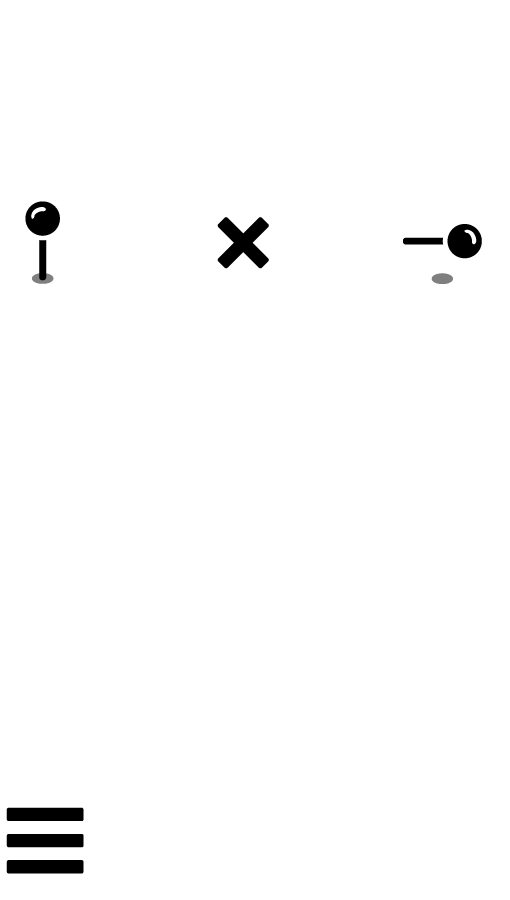
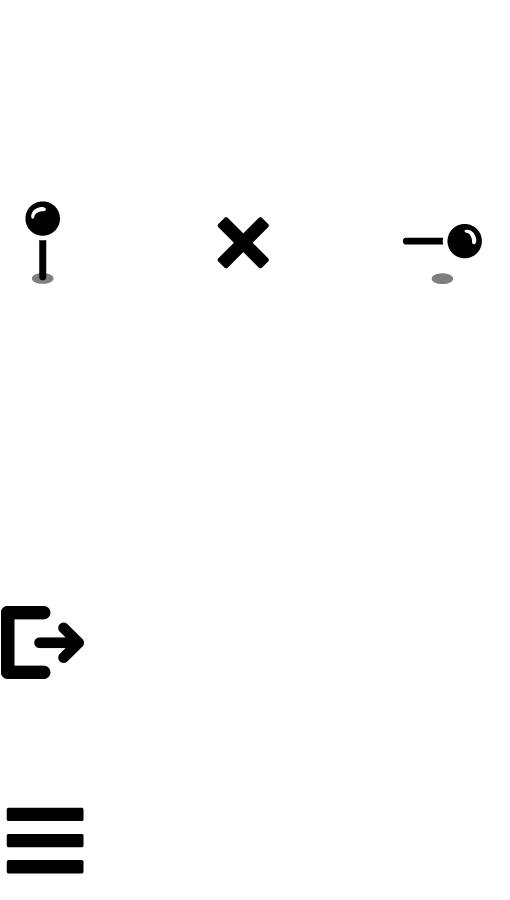
Flatten and simplify folio footer

Changed region(s): [[0.0, 0.6533, 0.1765, 0.7778]]

diff --git a/application/static/css/wonderpad.css b/application/static/css/wonderpad.css
@@ -62,15 +62,7 @@ body {
   border: 1px solid #c5c5c5;  
 }
 
-.button.dark, .panel.dark {
-  background-image: -webkit-gradient(linear, top, #494949, #313131); 
-  background-image: -webkit-linear-gradient(top, #494949, #313131);
-  background-image: -moz-linear-gradient(top, #494949, #313131);
-  background-image: -ms-linear-gradient(top, #494949, #313131);
-  filter: progid:DXImageTransform.Microsoft.gradient(GradientType=0,startColorstr='#494949', endColorstr='#313131');  
-  background-image: -o-linear-gradient(left, #494949, #313131);
-  background-image: linear-gradient(top, #494949, #313131);    
-  border: 1px solid #1d1d1d;   
+.button.dark, .panel.dark { 
   color: #eee;
 }
 
@@ -79,15 +71,7 @@ body {
   background-size: 108px auto;  
 }
 
-.button.dark:hover, .panel.dark:hover {
-  background-image: -webkit-gradient(linear, top, #666, #444); 
-  background-image: -webkit-linear-gradient(top, #666, #444);
-  background-image: -moz-linear-gradient(top, #666, #444);
-  background-image: -ms-linear-gradient(top, #666, #444);
-  filter: progid:DXImageTransform.Microsoft.gradient(GradientType=0,startColorstr='#666666', endColorstr='#444444');   
-  background-image: -o-linear-gradient(left, #666, #444);
-  background-image: linear-gradient(top, #666, #444);    
-  border: 1px solid #1d1d1d;   
+.button.dark:hover, .panel.dark:hover { 
   color: #fff;
 }
 
@@ -376,53 +360,49 @@ a.wpcbutton:hover {
 
 .menu .menufooter {
   position: absolute;
-  bottom: 0.6em;
-  left: 0.50em;
+  bottom: 0;
+  left: 0;
 }
 
 .menu .menufooter .logio {
   display: block;
 }
 
-.menu .menufooter a span {
+.menu .menufooter a.logio {
   background-image: url(../img/icons.png);
-}
-
-.menu .menufooter .logio.login a span {
-  background-position: -1px -85px;
-}
-
-.menu .menufooter .logio.logout a span {
-  background-position: 0 -127px;  
-}
-
-.menu .menufooter .archive {
-  position: absolute;
-  bottom: 0;
-  left: 38px;
-  display: block;
-  margin-left: 5px;
-  width: 250px;
-}
-
-.menu .menufooter .archive a {
+  background-repeat: no-repeat;
+  background-size: 108px auto;
+  text-indent: -3000px;
+  width: 50px;
+  height: 35px; 
+  opacity: 0.5; 
   display: inline-block;  
 }
 
-.menu .menufooter a.settings span {
-  background-position: -43px -84px;  
+.menu .menufooter a.logio:hover {
+  opacity: 1;
 }
 
-.menu .menufooter a.archbutton {
-  padding: 0 0 0 4px;
-  margin-left: 10px;
-  width: 200px;  
+.menu .menufooter a.logio.login {
+  background-position: 15px -82px;
 }
 
-.menu .menufooter a.archbutton span {
-  background-position: -85px -85px;  
-  padding-left: 28px; 
+.menu .menufooter a.logio.settings {
+  background-position: -26px -82px;   
 }
+
+.menu .menufooter a.archive {
+  position: absolute;
+  top: 2px;
+  left: 51px;
+  text-decoration: none;
+  color: #bbb;
+}
+
+.menu .menufooter a.archive:hover {
+  color: #fff;
+}
+
 
 @media (max-width: 480px) {
   .menu {
@@ -435,35 +415,7 @@ a.wpcbutton:hover {
     width: auto;
   }
 
-  .menu .menufooter {
-    position: absolute;
-    bottom: 7px;
-    left: 7px;
-    right: 50px;
-  }  
-
-  .menu .menufooter .archive {
-    width: auto;
-    right: 0;
-    margin-left: 0;
-    left: 40px;
-  }
-
-  .menu .menufooter a.archbutton {
-    position: absolute;
-    left: 38px;
-    right: 9px;
-    padding: 0;
-    margin-left: 2px;  
-    max-width: 202px;
-    width: auto; 
-    white-space: nowrap;
-    overflow: hidden;
-    text-overflow: ellipsis;           
-  } 
-
-  .menu .menufooter a.archbutton span {
-    padding-left: 24px; 
+  .menu .menufooter a.archive {
     white-space: nowrap;
     overflow: hidden;
     text-overflow: ellipsis;       
@@ -1990,6 +1942,23 @@ body#settingsPage input#cc_number.error {
   margin-right: 10px; 
 }
 
+#s_settings form .logout {
+  width: 32px;
+  height: 30px;
+  margin-top: -44px;
+  float: right;
+  cursor: pointer;
+  background-image: url(../img/icons.png);
+  background-repeat: no-repeat;
+  background-size: 108px auto;  
+  background-position: 5px -121px;   
+  opacity: 0.4;
+}
+
+#s_settings form .logout:hover {  
+  opacity: 0.9;
+}
+
 #s_settings form .ioption {
   float: right;
   display: inline-block;
@@ -2001,6 +1970,7 @@ body#settingsPage input#cc_number.error {
 
 #s_settings form .ioption.save {
   display: none;
+  margin-right: 36px;   
 }
 
 #s_settings form .ioption.error {

diff --git a/application/static/js/client.js b/application/static/js/client.js
@@ -56,11 +56,6 @@ var Hiro = {
 		// Lookup object. Usage: Hiro.folio.lookup[<docid>]
 		lookup: {},
 
-		// Last server sync timestamp
-		lastsync: 0,
-		// Time to live in ms, how long before we request a new version from the server to make sure we're in sync
-		ttl: 0,
-
 		// Timer for display update
 		updatetimeout: null,		
 
@@ -102,6 +97,23 @@ var Hiro = {
 			Hiro.util.registerEvent(this.el_archive,'click',Hiro.folio.docclick);						
 		},
 
+		bootstrap: function() {
+			// Build initial state on first visit or login
+		},		
+
+		paint: function() {
+			// (Re)render current doclist into DOM
+
+		},
+
+		set: function(source,id,property,value,verb) {
+			// source: user or server
+			// id: document id
+			// property: no shit sherlock
+			// value: see above
+			// verb (optional): action to be done eg in collaboratorslist (add/remove) 
+		},
+
 		docclick: function(e) {
 			// Clickhandler, this happens if a user clicks on a doc in the folio
 			var target = e.relatedTarget || e.toElement,
@@ -126,7 +138,7 @@ var Hiro = {
 			if (docid != Hiro.canvas.docid) {
 				Hiro.canvas.loaddoc(docid, Hiro.folio.lookup[docid].title);
 			}				
-		},
+		},		
 
 		showSettings: function(section,field,event) {
 			// Show settings dialog
@@ -724,7 +736,7 @@ var Hiro = {
 
 				// Setting the viewport height has a lot of benefits regarding the bugs we dealt with 
 				// (eg signup input field not scrolling into view, blocked input fields etc)
-				var measure = 'height=' + window.innerHeight + 'device-height,width=device-width,initial-scale=1, maximum-scale=1, user-scalable=no';
+				var measure = 'height=' + window.innerHeight + ',width=device-width,initial-scale=1, maximum-scale=1, user-scalable=no';
 				document.getElementById('viewport').setAttribute('content', measure);
 
 				// Cancel safariinit after enough time passed to focus textarea fast after that
@@ -1741,6 +1753,50 @@ var Hiro = {
 			}
 		}
 	},	
+
+	sync: {
+		// Object of not yet synced updates
+		updates: {},
+		// Queue of to be sent/confirmed messages
+		queue: [],
+		// Last server sync timestamp
+		lastsync: 0,	
+		// Is the local datastructure saved locally? 
+		persisted: false,
+
+		buildqueue: {
+			// Take update object and transform it into queue messages
+		},
+
+		send: function() {
+			// Transmit current queue
+		},
+
+		incoming: function(message) {
+			// Handler for incoming messages
+		},
+
+		ds: {
+			// Differential sync components
+		},
+
+		socket: {
+			// Lean websocket API
+		},
+
+		longpolling: {
+			// Longpolling fallback
+		},
+
+		ajax: {
+			// Generic AJAX API
+		},
+
+		store: {
+			// Localstorage abstraction
+		}
+
+	},
 
 	sharing: {
 		// Share a Note with other users
@@ -3840,9 +3896,9 @@ var Hiro = {
 						results.style.marginRight = '1px';
 						results.style.paddingRight = '2px';						
 						signupButton.style.display = 'none';
-						Hiro.folio.el_logio.className = 'logio logout';
-						Hiro.folio.el_logio.getElementsByTagName('a')[0].title = 'Logout';
-						Hiro.folio.el_logio.getElementsByTagName('span')[0].innerHTML = 'Logout';	
+						Hiro.folio.el_logio.className = 'logio settings';
+						Hiro.folio.el_logio.title = 'Settings';
+						Hiro.folio.el_logio.innerHTML = 'Settings';	
 
 						// Init sync capabilities
 						if (!Hiro.canvas.sync.inited) Hiro.canvas.sync.init();	

diff --git a/application/templates/index.html b/application/templates/index.html
@@ -5,7 +5,7 @@
 	    <title>{% if doc %}{{ doc.title or 'Untitled' }}{% else %}Hiro{% endif %}</title>
         <meta name="description" content="From ideas for your business to party preparations: Hiro is the easiest way to stay organized throughout the day." />
         <meta name="keywords" content="Hiro, notes, notepad, notes with firends, shared notes, notetaking, evernote, simplenote, shared notes, writing, writing app, word processor, text, text editor" />
-        <meta name="title" content="Hiro. Dead-Simple Notetaking." />	    
+        <meta name="title" content="{% if doc %}{{ doc.title or 'Untitled' }}{% else %}Hiro{% endif %}" />	    
 		<meta name="apple-mobile-web-app-capable" content="yes" />
 		<meta name="mobile-web-app-capable" content="yes" />		
 		<meta name="apple-touch-fullscreen" content="yes" />
@@ -40,26 +40,19 @@
 
 		<div class="menu" onmouseover="Hiro.ui.menuSlide(1,'',true);" id="folio">
 			<div class="menuheader">
-				<a href="#" class="newdoc" onclick="Hiro.folio.newdoc();"><b>+</b>&nbsp;New Note</a>
+				<a href="#" class="newdoc" onclick="Hiro.folio.newdoc();"><b>+</b>&nbsp; New Note</a>
 			</div>
 			<div class="documents" id="doclist">
 				<span class="loading">Loading...</span>				
 			</div>	
 			<div class="documents" id="archivelist"></div>				
 			<div class="menufooter">
-				<div class="logio login" id="logio">
-					<a href="#" class="button dark" onclick="Hiro.sys.user.logio();return false;" title="Login">
-						<span>Login</span>
-					</a>			
-				</div>
-				<div class="archive">
-					<a href="#" class="button dark settings" title="Settings" onclick="Hiro.folio.showSettings();return false;" ontouchstart="Hiro.folio.showSettings();return false;">
-						<span>Settings</span>
-					</a>					
-					<a href="#" class="panel dark archbutton" title="Archive" onclick="Hiro.folio.openarchive();return false;" ontouchstart="Hiro.folio.openarchive();return false;">
-						<span id="a_counter">Archive</span>
-					</a>								
-				</div>	
+				<a href="#" class="logio login" id="logio" title="Login" onclick="Hiro.folio.showSettings();return false;" ontouchstart="Hiro.folio.showSettings();return false;" title="Login">
+					<span>Login</span>
+				</a>						
+				<a href="#" class="archive" title="Archive" id="a_counter" onclick="Hiro.folio.openarchive();return false;" ontouchstart="Hiro.folio.openarchive();return false;">
+					Archive
+				</a>								
 			</div>			
 		</div>
 		
@@ -126,8 +119,8 @@
 				<div id="wwwresults"></div>																		
 			</div>
 			<div class="upgrade" id="signupButton">
-				<small>Unlock more links and features:</small>
-				<a href="#" class="wpcbutton green" title="Unlock more results and other features" onclick="Hiro.folio.showSettings();return false;">Sign Up ( Free! )</a>
+				<small>Access your notes from any device:</small>
+				<a href="#" class="wpcbutton green" title="Access your notes from any device" onclick="Hiro.folio.showSettings();return false;">Sign Up ( Free! )</a>
 			</div>
 		</div>
 

diff --git a/application/templates/settings.html b/application/templates/settings.html
@@ -58,7 +58,7 @@
 				{% if current_user.is_authenticated() %}
 				<div class="accountdetails">
 					<form id="accountform" action="javascript:void(0);">
-						<input type="text" value="{{ current_user.name }}" onkeyup="Hiro.sys.user.nametype(event)" placeholder="Your name (for shared editing)"></input><div class="ioption save"><a href="#" onclick="Hiro.sys.user.namesave(event);">Save Changes</a></div>
+						<input type="text" value="{{ current_user.name }}" onkeyup="Hiro.sys.user.nametype(event)" placeholder="Your name (for shared editing)"></input><div class="ioption save"><a href="#" onclick="Hiro.sys.user.namesave(event);">Save Changes</a></div><div class="logout" title="Logout" onclick="Hiro.sys.user.logio();return false;"></div>
 						<input type="text" value="{{ current_user.email }}" disabled></input>{% if current_user.facebook_uid %}<div class="ioption">via&nbsp;<a href="https://www.facebook.com/{{ current_user.facebook_uid }}" class="facebook" target="_blank">Facebook</a></div>{% endif %}
 						<input type="text" value="Member since:&nbsp;{{ current_user.signup_at.strftime('%B %d, %Y') }}" disabled></input><div class="ioption nomobile">Thanks!</div>
 						<input type="text" value="{% if current_user.tier==1 %}Basic{% elif current_user.tier==2 %}Advanced{% else %}Pro{% endif %}&nbsp;Plan" disabled></input><div class="ioption upgradelink"><a href="#" onclick="Hiro.ui.switchView(document.getElementById('s_plan'));return false;">Upgrade</a></div>
@@ -207,7 +207,7 @@
 					<div class="claim"><em>Hiro is for people with big ideas</em><br />
 					who want a better tool to keep them.</div>
 
-					Why do we still have so many textfiles on our desktop, or send emails to ourselves? Sure, there are plenty of apps to write longer texts, create colorful scrapbooks or intricate mindmaps. But we wanted something incredibly simple, fast, that works on any device, without complicated syncing through third party services or 3 menus before you can do something. Something you open when a thought you don't want to lose crosses your mind. A place where they are <em>safe and not accessed by anybody else</em>.<br /><br />
+					Why do we still have so many textfiles on our desktop, or send emails to ourselves? Sure, there are plenty of apps to write longer texts, create colorful scrapbooks or intricate mindmaps. But we wanted something incredibly simple, fast, that works on any device, without complicated syncing through third party services or 3 menus before you can do anything. Something you open when an idea you don't want to lose crosses your mind. A place where it is <em>safe and not accessed by anybody else</em>.<br /><br />
 
 					<span class="contact">We hope you like Hiro as much as we do. We're always there at <a href="mailto:hello@hiroapp.com" target="_blank">hello@hiroapp.com</a> and share the best tricks of how people manage their ideas on <a href="https://www.facebook.com/hiroapp" target="_new">facebook.com/hiroapp</a>.</span>
 				</div>	
